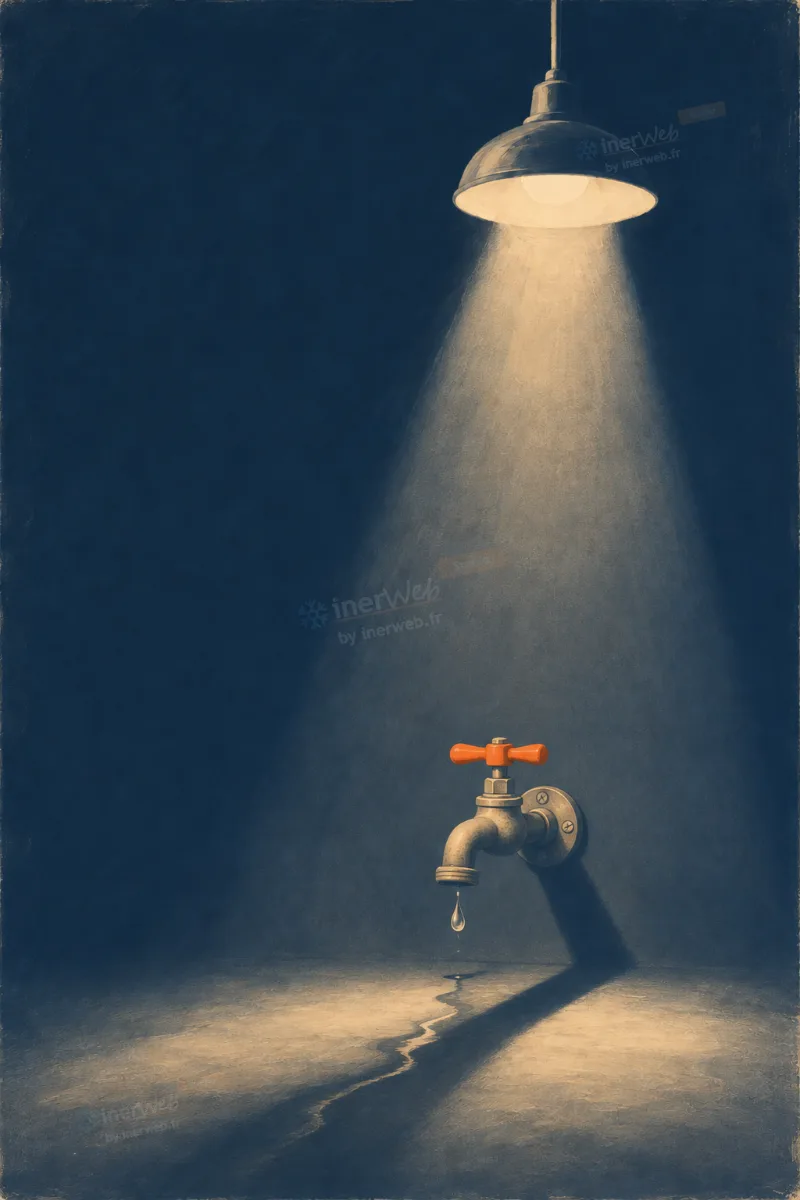
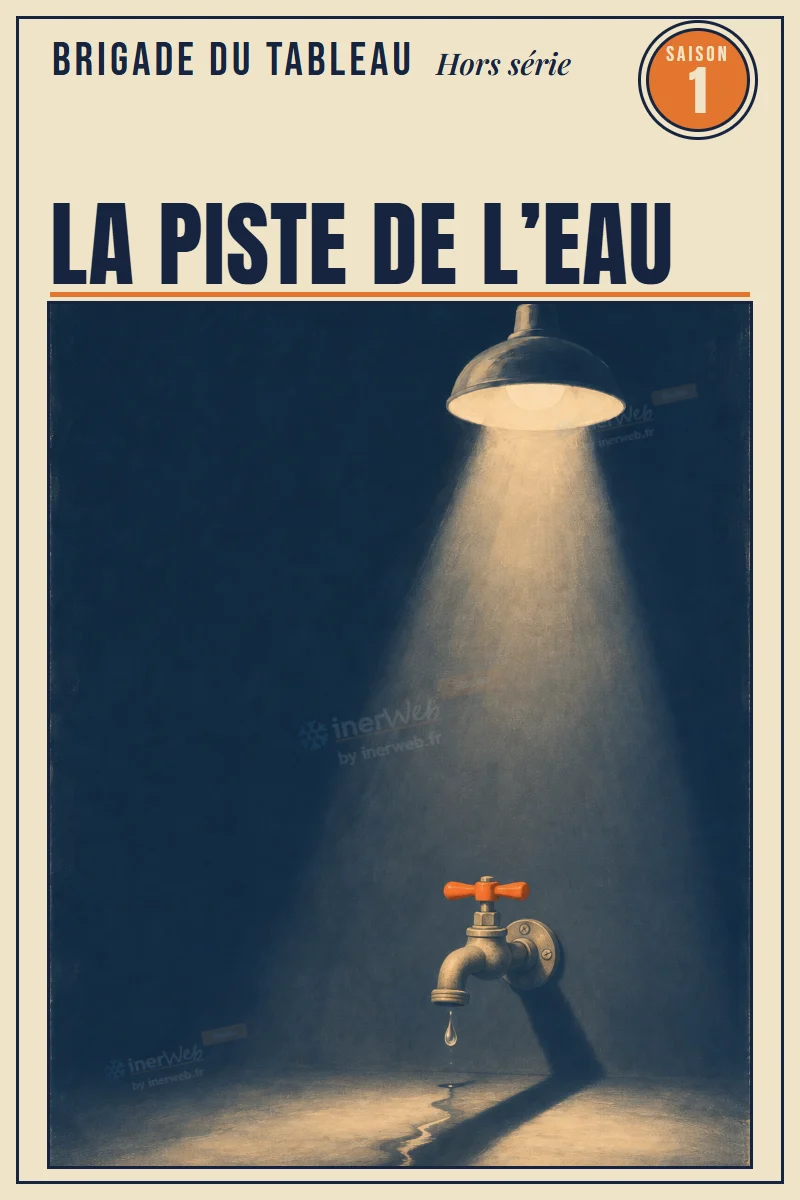
Studio, Brigade du tableau : affiches en couvertures titrées, série, saison, numéro et titre dans l'image (demande de Franck, 13/11/2026)
Onze couvertures remplacées (affiche de série, huit films de la saison 1, deux de la saison 2) ;
les cartes de la série prennent la classe affiche sans-titre.

diff --git a/studio/index.html b/studio/index.html
@@ -155,7 +155,7 @@
         <p class="pitch"><b>Série.</b> Le mano BP bleu contre le mano HP rouge, façon science-fiction des années 1970 : pression relative et absolue, surchauffe, sous-refroidissement et incondensables.</p>
       </li>
       <li>
-        <a class="affiche" href="#t-brigade">
+        <a class="affiche sans-titre" href="#t-brigade">
           <img src="affiches/serie-brigade-du-tableau.webp" alt="" width="800" height="1200" loading="lazy">
           <span class="rayon">Série · 10 films</span>
           <span class="titre">Brigade du tableau</span></a>
@@ -386,7 +386,7 @@
     <section class="fiche" id="t-brigade" aria-labelledby="h-brigade">
       <p class="retour"><a href="#affiches">← Toutes les affiches</a></p>
       <div class="entete">
-        <a class="affiche" href="brigade/brigade-1-temoins.mp4" aria-label="Voir le premier film, les quatre témoins"><img src="affiches/serie-brigade-du-tableau.webp" alt="" width="800" height="1200" loading="lazy"><span class="titre">Brigade du tableau</span></a>
+        <a class="affiche sans-titre" href="brigade/brigade-1-temoins.mp4" aria-label="Voir le premier film, les quatre témoins"><img src="affiches/serie-brigade-du-tableau.webp" alt="" width="800" height="1200" loading="lazy"><span class="titre">Brigade du tableau</span></a>
         <div>
           <h2 id="h-brigade">Brigade du tableau</h2>
           <p class="meta">Série · 10 films de 3 min 25 à 3 min 53 · dessin animé narré · chaque film se regarde seul</p>
